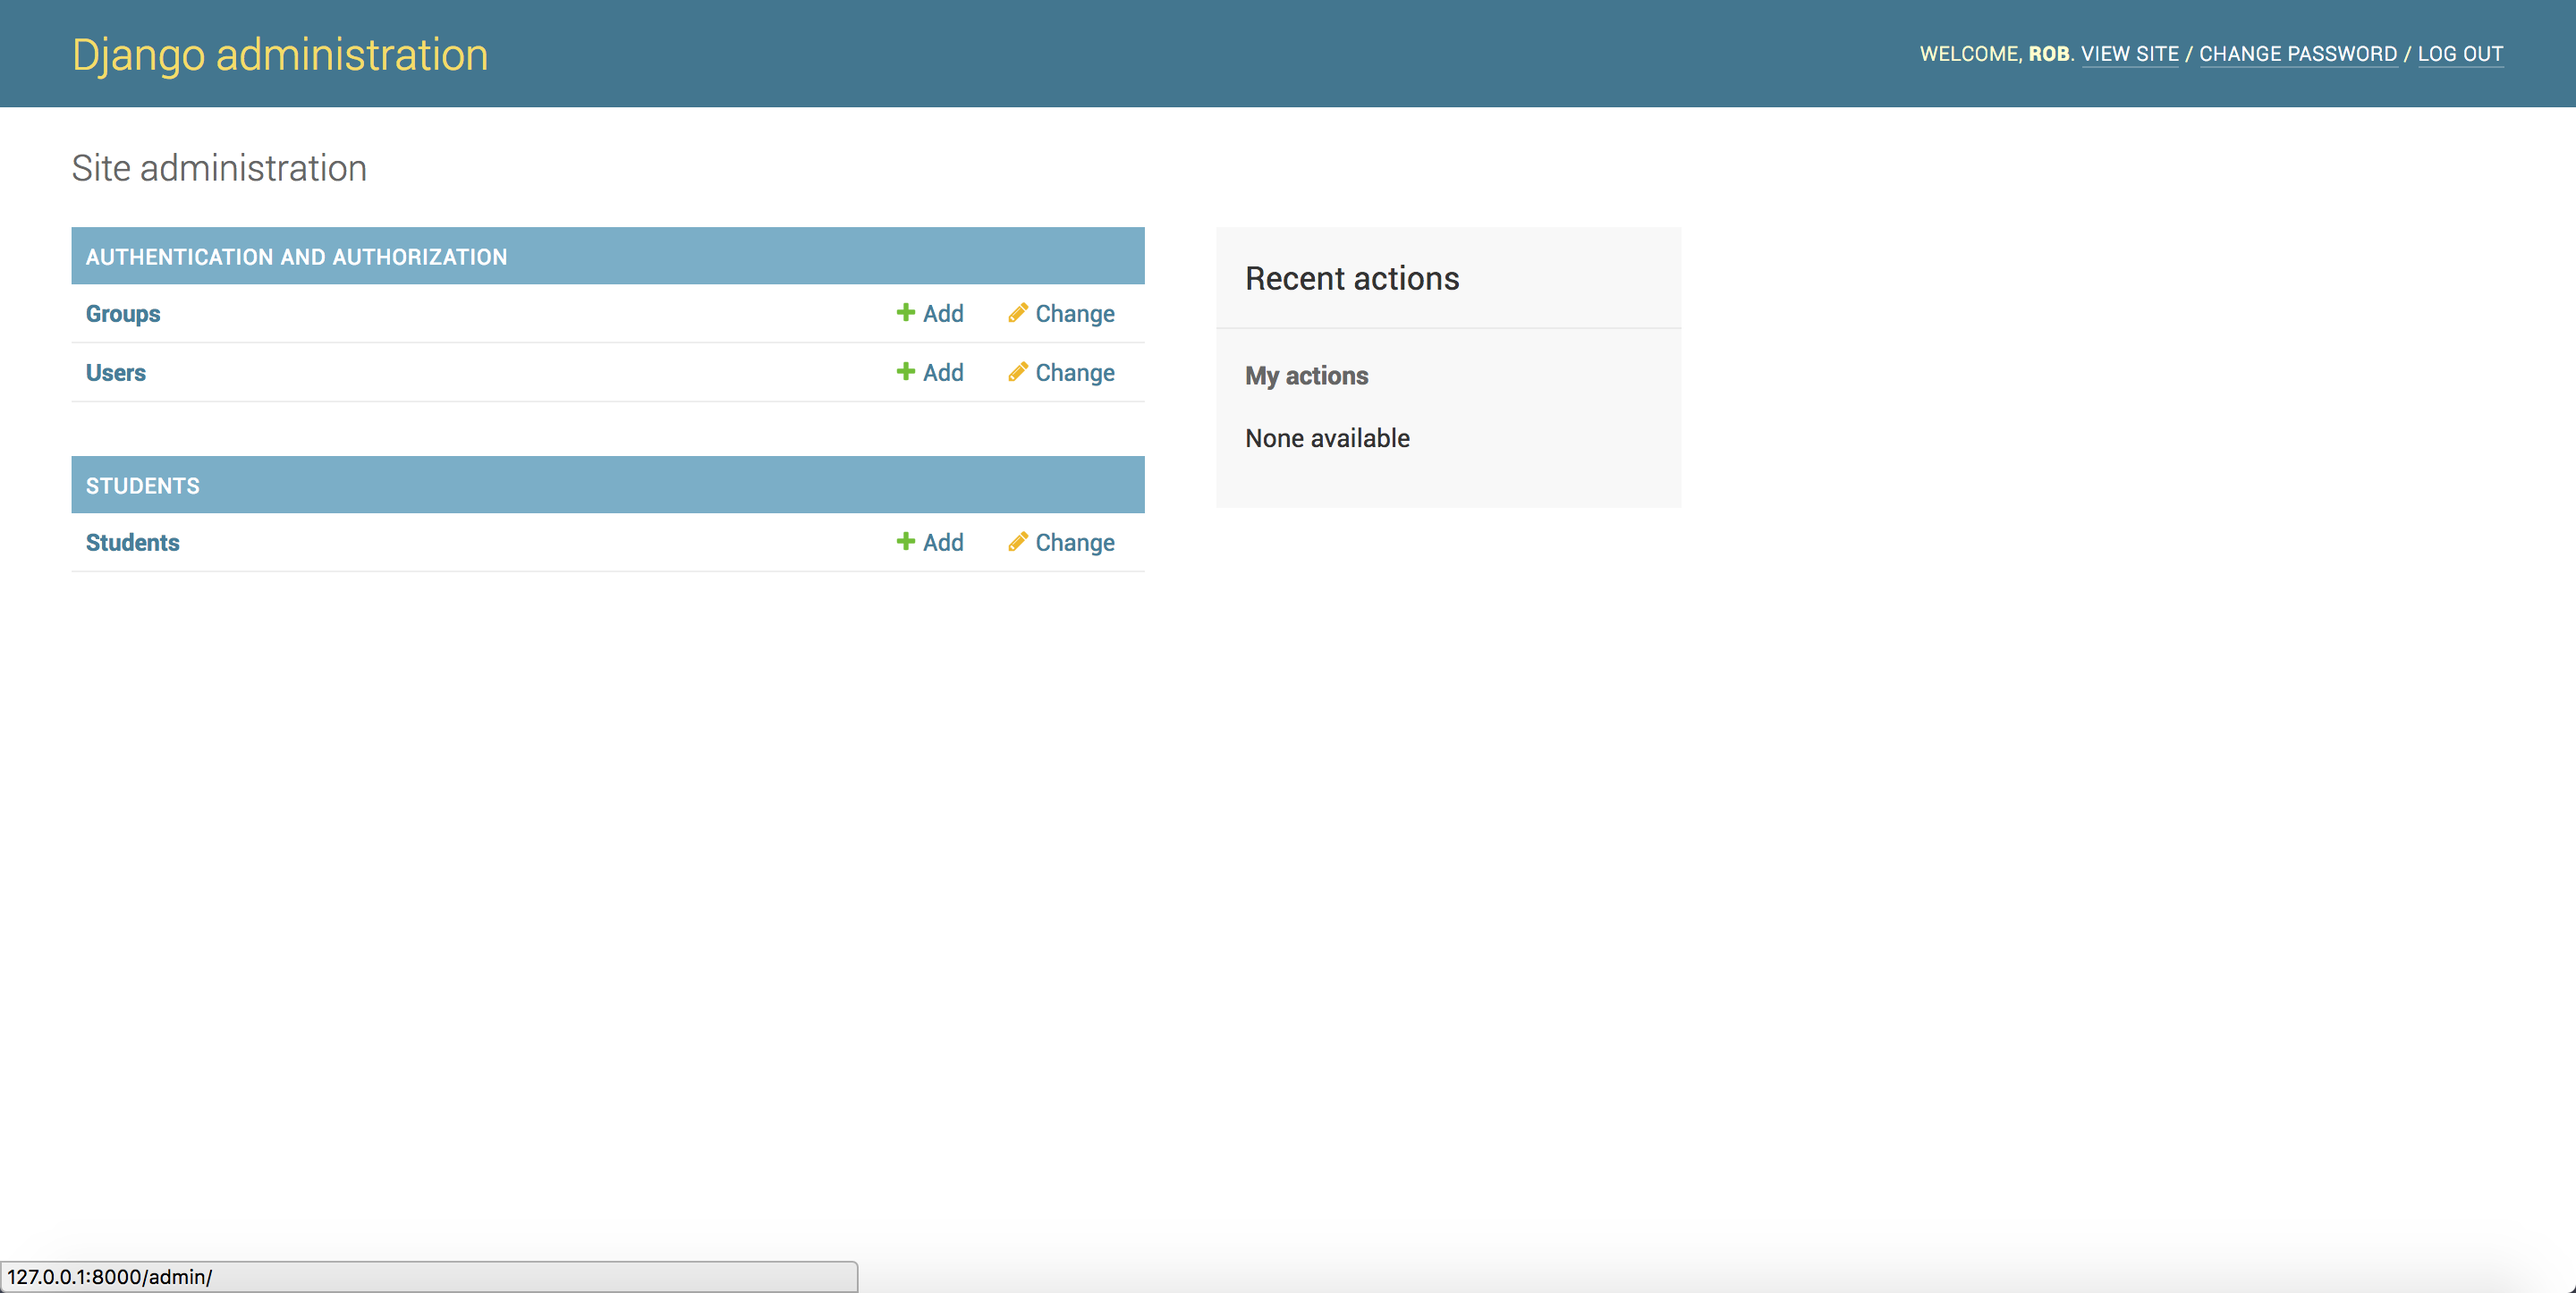
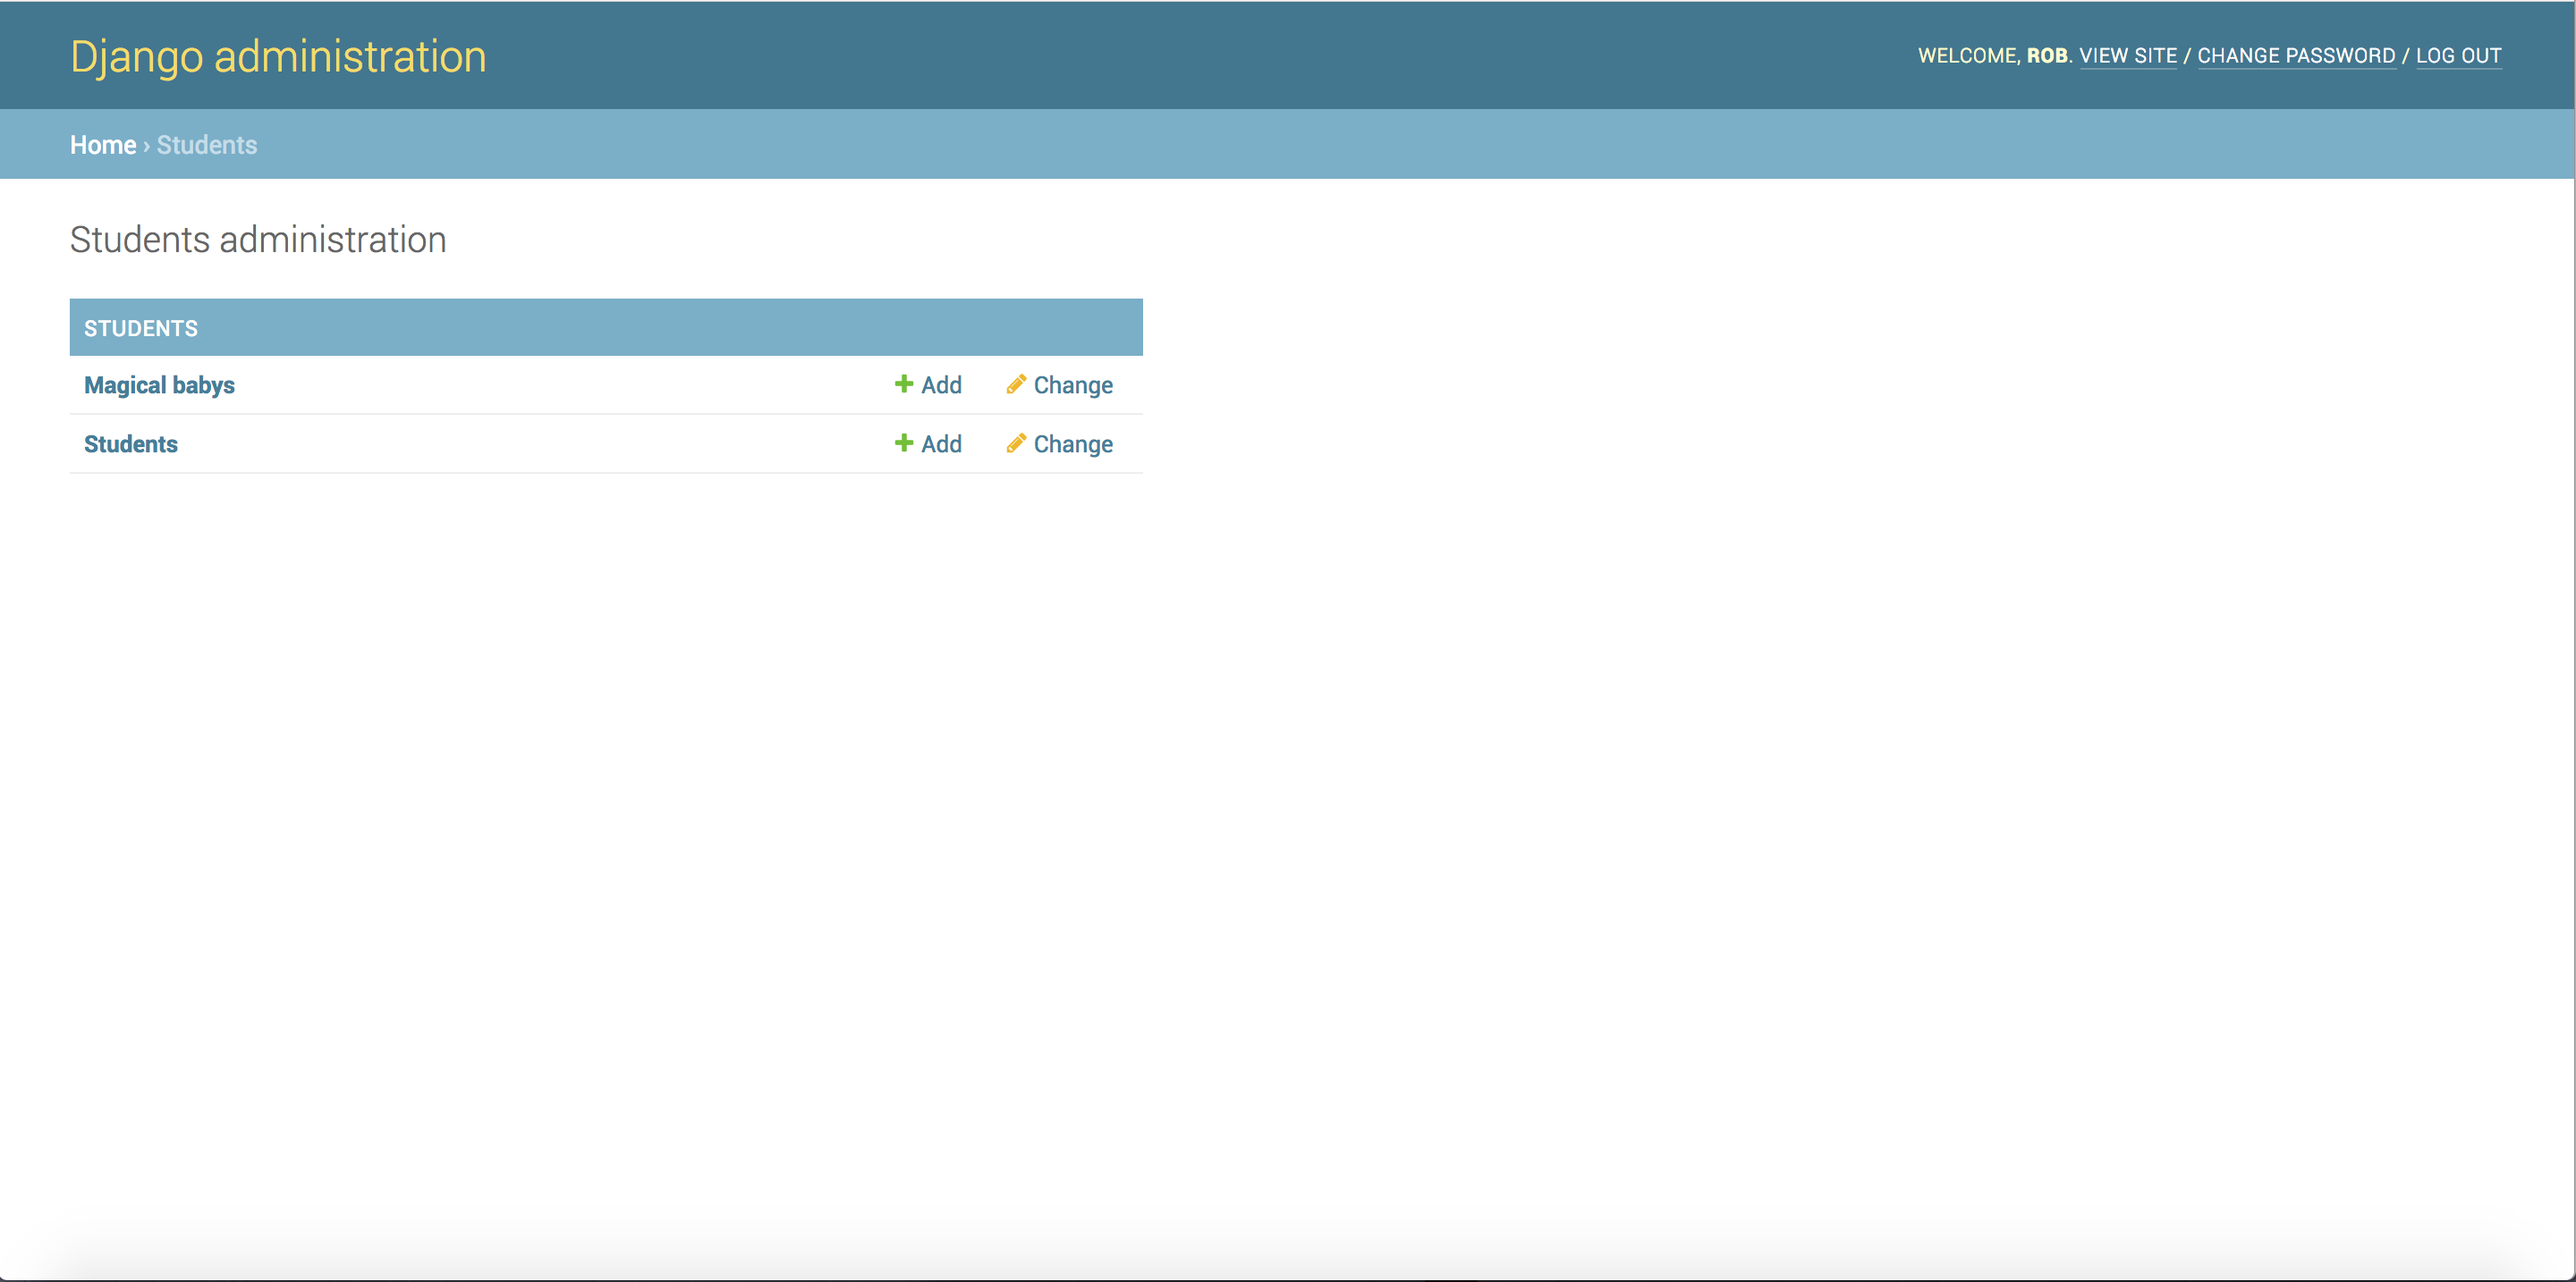
update pictures, add magical babies to sqlite

diff --git a/README.md b/README.md
@@ -158,12 +158,12 @@ you just created.
 corner of the whitespace.  We should then see an interface to add a
 baby, like this:
 
-    ![add_student]
+    ![add_baby]
 
 * Let's add a couple of babies.  After you've added them, the
 baby list should look similar to this:
 
-    ![student_list]
+    ![baby_list]
 
 * We can delete or edit any of these babies, if we so choose, by
 clicking on their name in the list above.
@@ -175,6 +175,6 @@ indeed functional, and is perfectly acceptable for use in production.
 editing and adding babies.
 
 [admin_interface]: images/admin_interface.png
-[add_student]: images/add_student.png
-[student_list]: images/student_list.png
+[add_baby]: images/add_baby.png
+[baby_list]: images/baby_list.png
 
